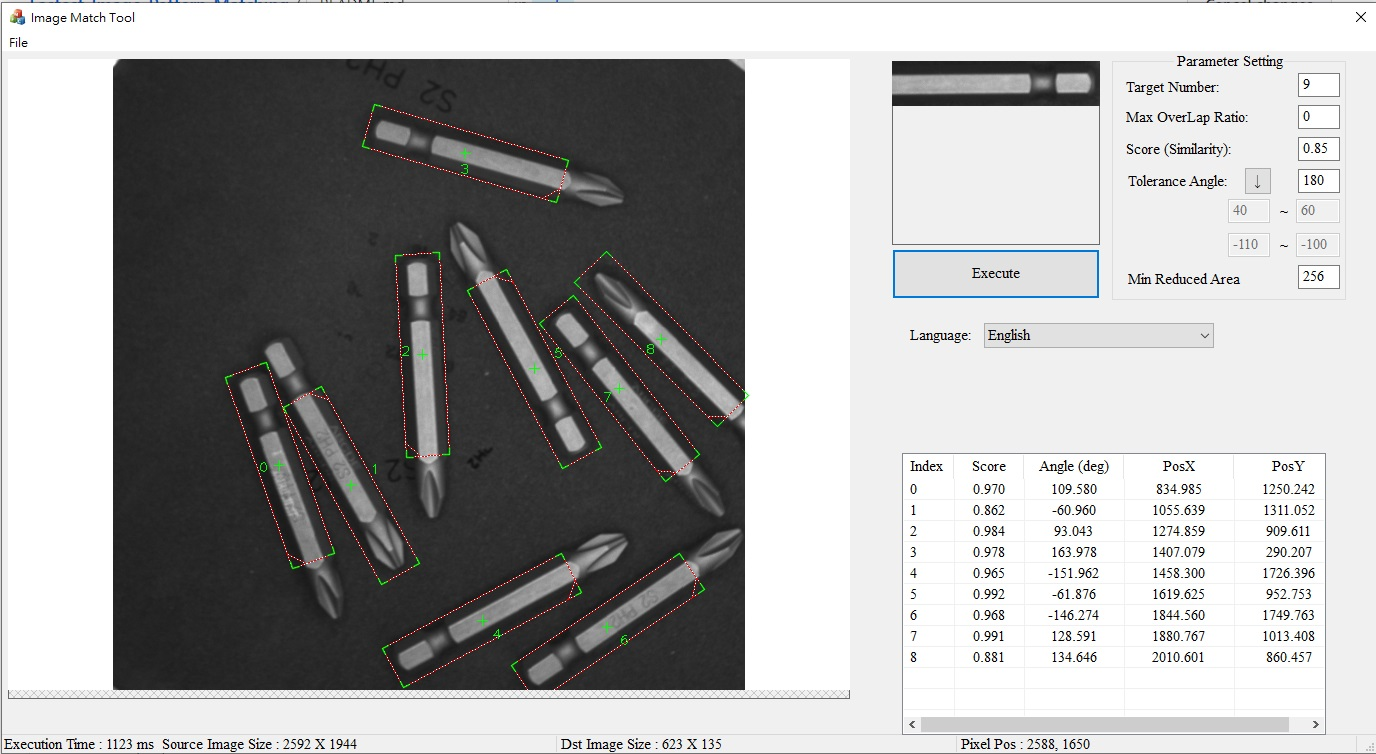
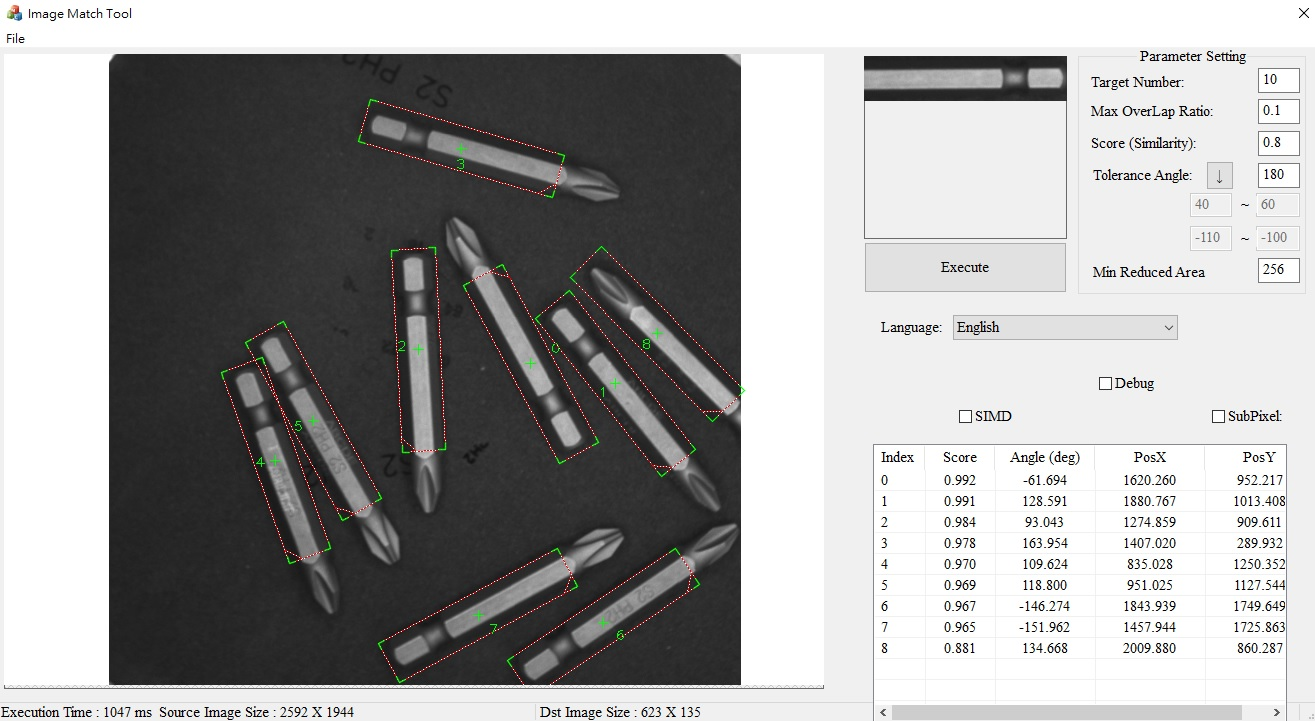
fit manual image

diff --git a/MatchTool/MatchToolDlg.cpp b/MatchTool/MatchToolDlg.cpp
@@ -661,6 +661,8 @@ void CMatchToolDlg::ChangeLanguage (CString strLan)
 	GetDlgItem (IDC_BUTTON_EXECUTE)->SetWindowText (szBuf);
 	GetPrivateProfileString (strLan, L"Language", L"Language:", szBuf, _MAX_PATH, strLanPath);
 	GetDlgItem (IDC_STATIC_LANGUAGE)->SetWindowText (szBuf);
+	GetPrivateProfileString (strLan, L"SubPixel", L"SubPixel:", szBuf, _MAX_PATH, strLanPath);
+	GetDlgItem (IDC_CHECK_SUBPIXEL)->SetWindowText (szBuf);
 
 	GetPrivateProfileString (strLan, L"Index", L"Index", szBuf, _MAX_PATH, strLanPath);
 	m_strLanIndex = szBuf;
